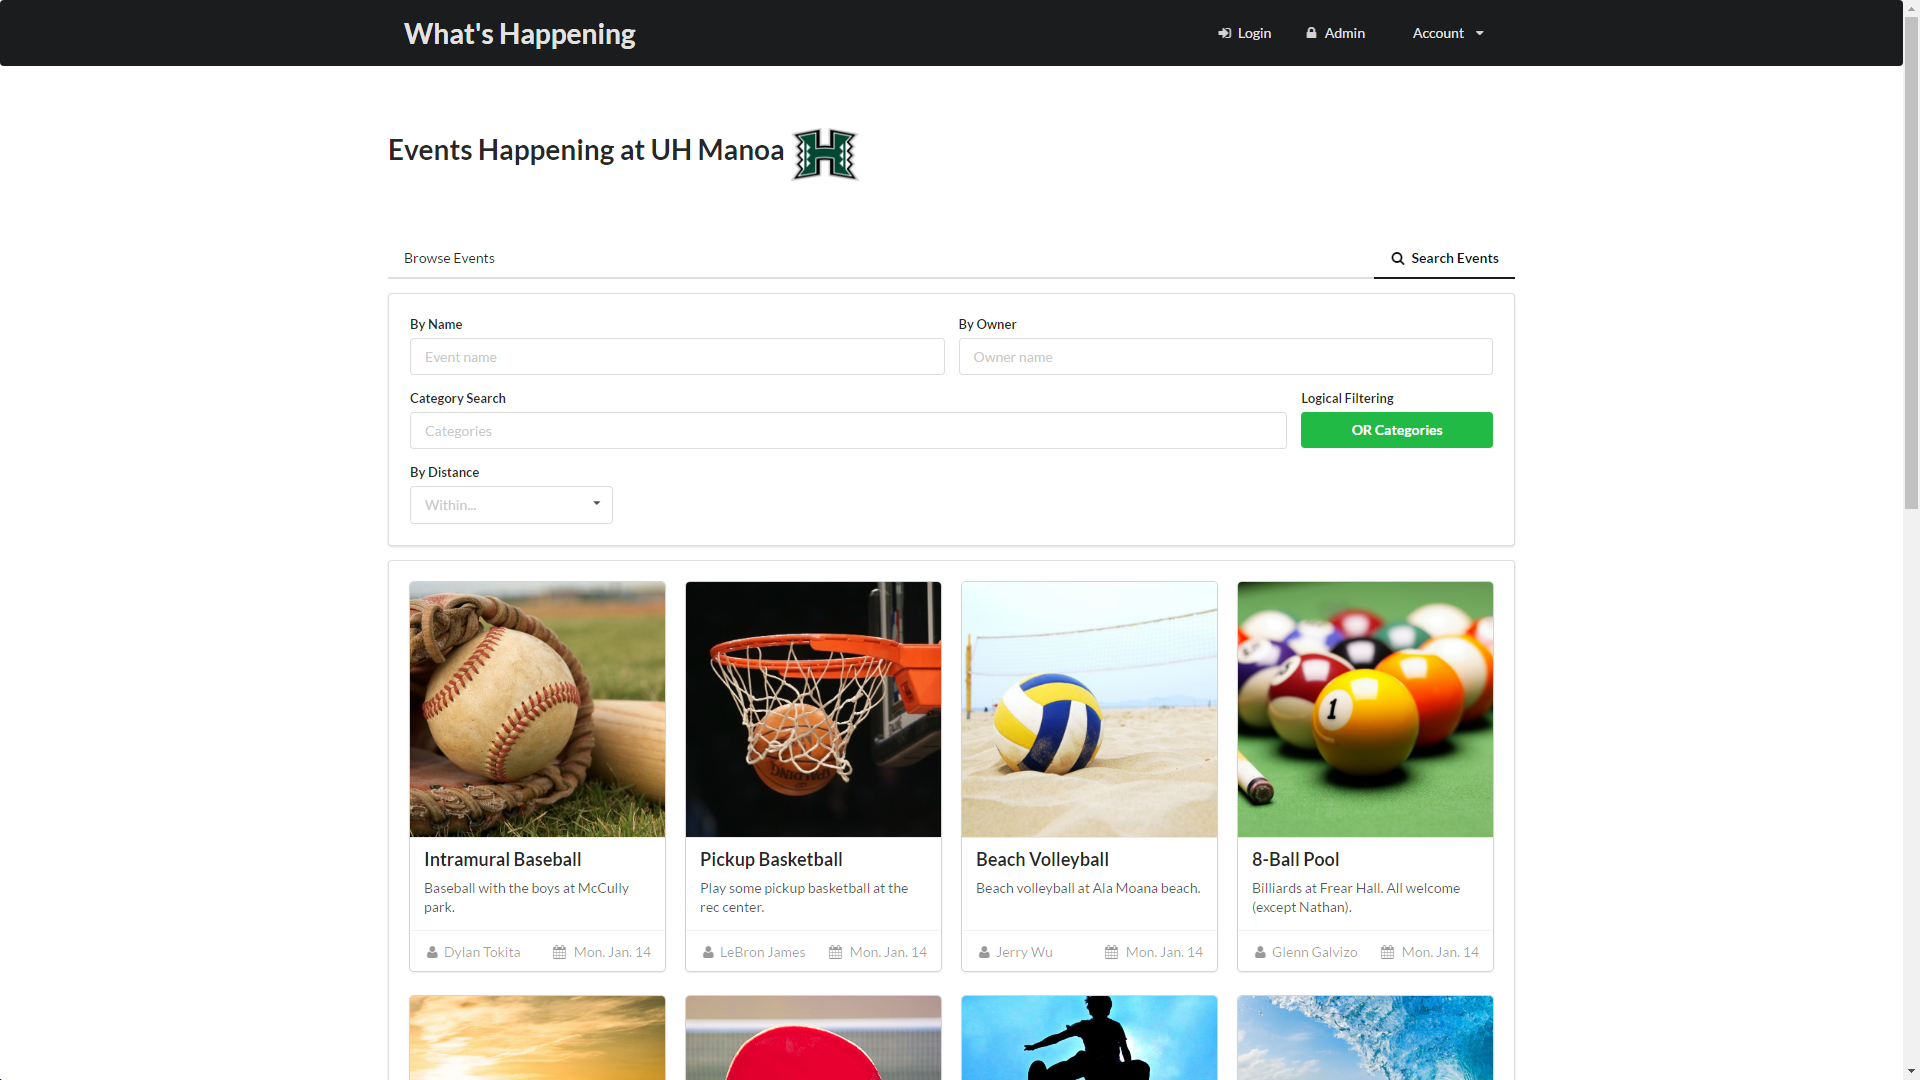
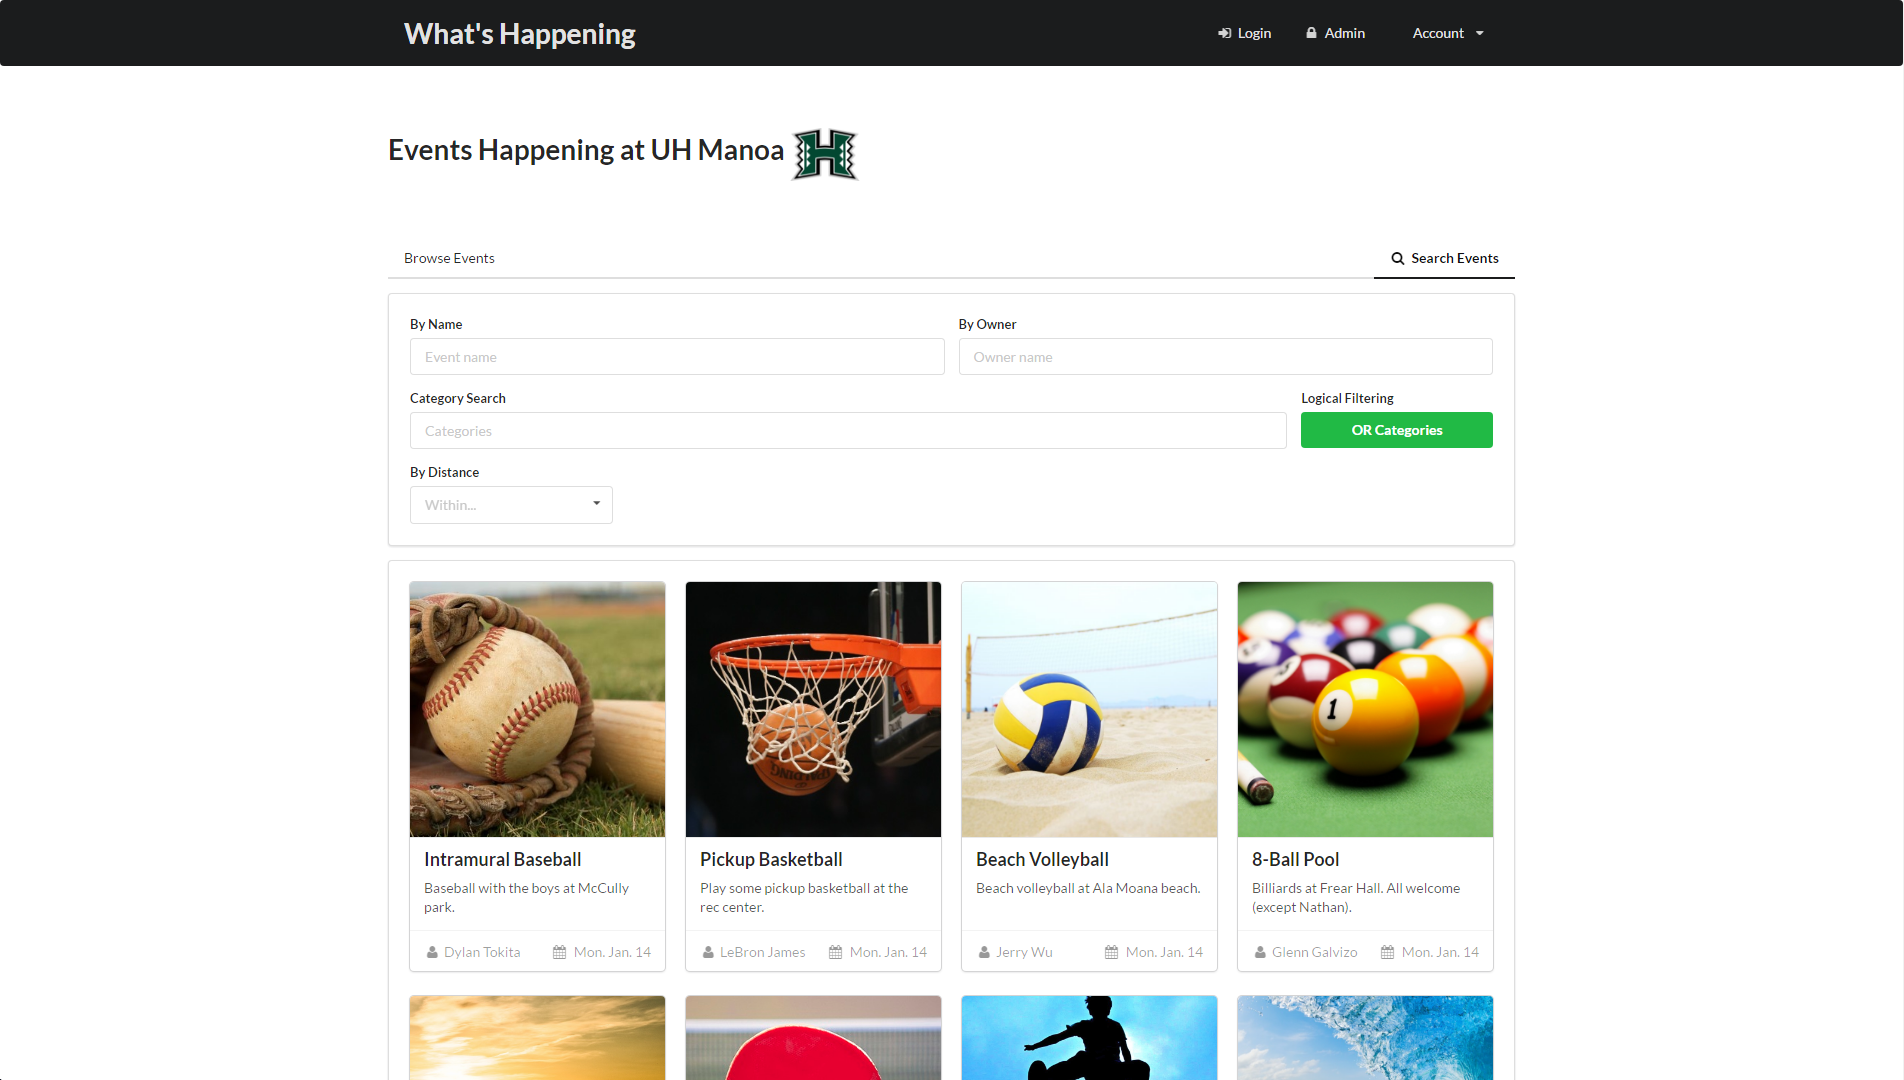
increased image size

diff --git a/projects/whats-happening.md b/projects/whats-happening.md
@@ -15,7 +15,7 @@ summary: A web application built using MeteorJS and SemanticUI, for the final pr
 ## Motivation
 For college students, finding events can be hard. Finding events that you're actually interested in, can be even harder. Here's an example.
 
-<img class="ui large centered image" src="../images/crowded-bulletin-board.jpg">
+<img class="ui big centered image" src="../images/crowded-bulletin-board.jpg">
 
 Try finding the flier for the film festival. It's not very obvious, is it?
 
@@ -23,13 +23,13 @@ The same goes for those looking to advertise their events. Having to compete aga
 
 ## Introduction
 
-<img class="ui large centered image" src="../images/whats-happening-landing.png">
+<img class="ui big centered image" src="../images/whats-happening-landing.png">
 
 What's Happening is a web application designed to solve the problems mentioned above. It aims to be a one-stop-shop for those looking to create an event and advertise it, or for those looking to find interesting events to attend.
 
 Here is the home page. The events are listed as cards, which users can click to bring up a more detailed view. Users have the ability to attend events, save events, and create events. On their profile page, users can view the events they have saved, are planning to attend, or own.
 
-<img class="ui large centered image" src="../images/whats-happening-home.png">
+<img class="ui big centered image" src="../images/whats-happening-home.png">
 
 ## More information
 If you want to read more about our page, check out our [GitHub page](https://whats-happening-uhm.github.io/) and our [GitHub repo](https://github.com/whats-happening-uhm/whats-happening-uhm).
